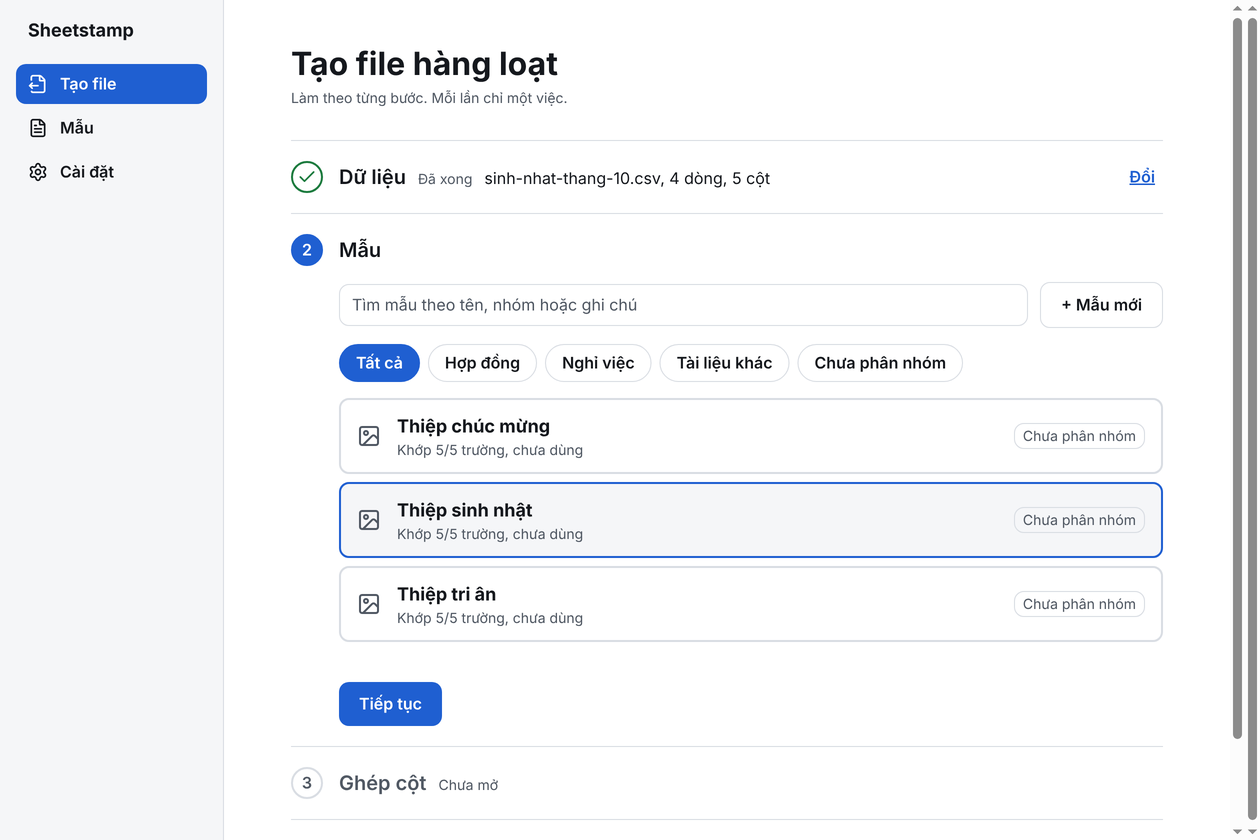
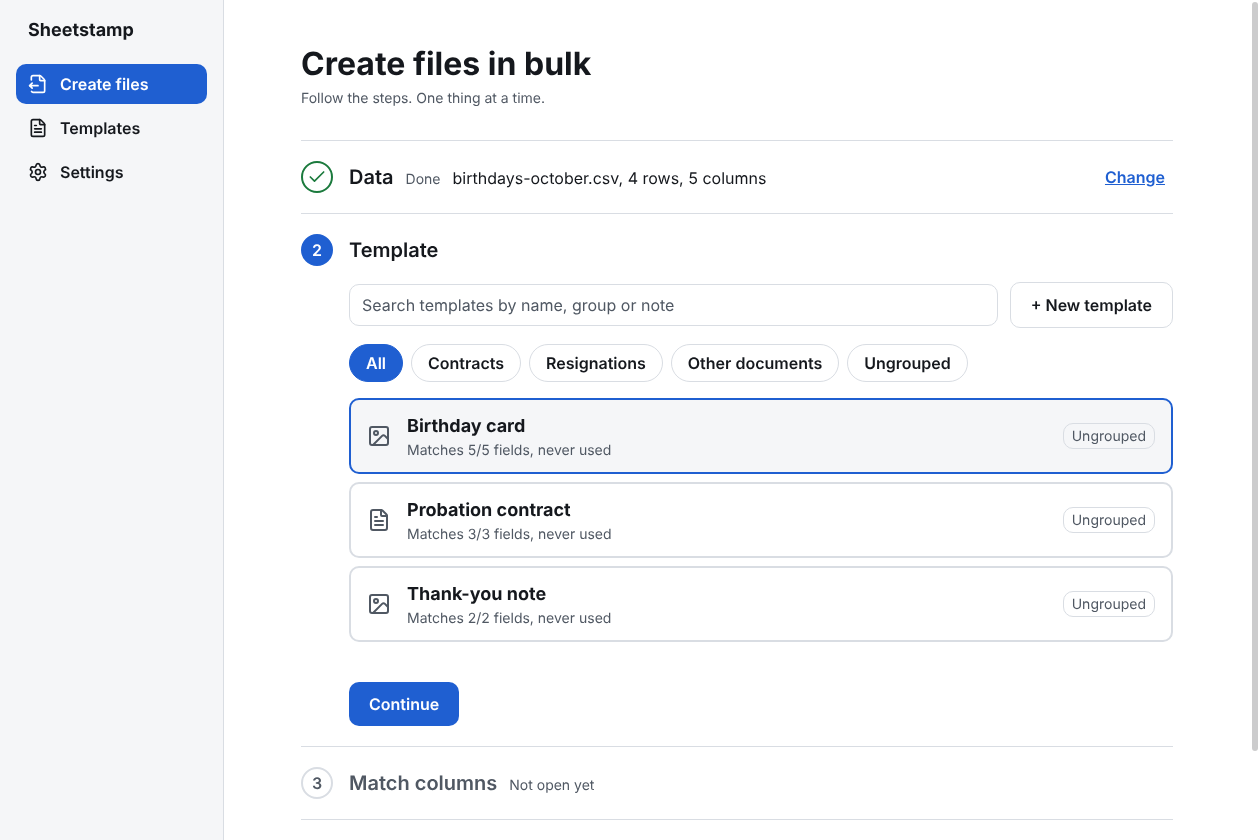
fix: English counts agree with their number, alert text per spec, English app screenshots (#29)
plural() helper for English strings; the taken-column alert is the spec sentence only; README screenshots retaken in English.

Claude-Session: https://claude.ai/code/session_019Cd4QJApFvAJck8ijqSqUp

diff --git a/src/renderer/strings/templates.ts b/src/renderer/strings/templates.ts
@@ -1,4 +1,4 @@
-import { pick } from "../../shared/i18n";
+import { pick, plural } from "../../shared/i18n";
 
 /** User-visible strings of the Mẫu page and the new-template dialog. */
 const viTpl = {
@@ -145,7 +145,7 @@ const enTpl: typeof viTpl = {
   loadError:
     "Could not load the templates. Restart the app; if it keeps failing, check the data folder.",
   list: "Document templates",
-  fieldsCount: (n: number) => `${n} fields`,
+  fieldsCount: (n: number) => `${n} ${plural(n, "field")}`,
   neverUsed: "never used",
   usedOn: (date: string) => `used ${date}`,
   edit: "Edit",
@@ -172,12 +172,13 @@ const enTpl: typeof viTpl = {
     newGroupName: "Name of the new group",
     addNote: "+ Add a note",
     note: "Note",
-    fieldsFound: (n: number) => `Found ${n} fields in the file.`,
+    fieldsFound: (n: number) => `Found ${n} ${plural(n, "field")} in the file.`,
     showLabels: "Show display names",
     labelFor: (key: string) => `Display name of ${key}`,
     noFields:
       "No fields found in the file. Write fields like {{ten}} in the Word file and try again.",
-    unsupportedTitle: (n: number) => `${n} items are not supported and will not be filled in:`,
+    unsupportedTitle: (n: number) =>
+      `${n} ${plural(n, "item is", "items are")} not supported and will not be filled in:`,
     unsupportedReason: {
       loop: "loop",
       note: "inside a footnote",
@@ -210,12 +211,13 @@ const enTpl: typeof viTpl = {
     undoReplace: "Keep the old file",
     filenamePattern: "File name pattern",
     patternHint: "Write {{field name}} to insert data, for example {{ho_ten}}_Probation.",
-    fieldsTitle: (n: number) => `${n} fields in the template.`,
+    fieldsTitle: (n: number) => `${n} ${plural(n, "field")} in the template.`,
     removedBadge: "no longer in the file",
     addedBadge: "new",
     changesTitle: "Replacing the file will change:",
-    keptLine: (n: number) => `${n} fields stay as they are.`,
-    mappingKept: (n: number) => `The saved column matching of ${n} fields is kept.`,
+    keptLine: (n: number) =>
+      `${n} ${plural(n, "field stays as it is", "fields stay as they are")}.`,
+    mappingKept: (n: number) => `The saved column matching of ${n} ${plural(n, "field")} is kept.`,
     addedLine: (keys: string) => `New fields, not matched to a column yet: ${keys}.`,
     removedLine: (keys: string) => `No longer in the file: ${keys}.`,
     removedMapped: (keys: string) =>
@@ -232,13 +234,16 @@ const enTpl: typeof viTpl = {
     undoReplace: "Keep the old image",
     changesTitle: "Replacing the background keeps the text boxes and the column matching.",
     noBoxes: "The template has no text boxes yet.",
-    allInside: (n: number) => `All ${n} text boxes are inside the new image.`,
+    allInside: (n: number) =>
+      n === 1
+        ? "The text box is inside the new image."
+        : `All ${n} text boxes are inside the new image.`,
     outsideTitle: (n: number) =>
-      `${n} text boxes are outside the new image. They are not moved; fix their position in “Edit image”:`,
+      `${n} ${plural(n, "text box is", "text boxes are")} outside the new image. ${n === 1 ? "It is" : "They are"} not moved; fix ${n === 1 ? "its" : "their"} position in “Edit image”:`,
     partly: "partly outside",
     outside: "completely outside",
     confirm: (n: number) =>
-      `Replace the image even though ${n} text boxes are outside the new one?`,
+      `Replace the image even though ${n} ${plural(n, "text box is", "text boxes are")} outside the new one?`,
     confirmYes: "Replace anyway",
     confirmBack: "Go back",
   },
@@ -246,7 +251,7 @@ const enTpl: typeof viTpl = {
     title: "Manage groups",
     empty: "No groups yet.",
     list: "Groups",
-    templateCount: (n: number) => (n === 0 ? "no templates" : `${n} templates`),
+    templateCount: (n: number) => (n === 0 ? "no templates" : `${n} ${plural(n, "template")}`),
     rename: "Rename",
     renameLabel: (name: string) => `New name of the group ${name}`,
     renameSave: "Save name",
@@ -256,11 +261,13 @@ const enTpl: typeof viTpl = {
     confirm: (name: string, n: number) =>
       n === 0
         ? `Delete the group “${name}”?`
-        : `Delete the group “${name}”? ${n} templates will move to “Ungrouped”.`,
+        : `Delete the group “${name}”? ${n} ${plural(n, "template")} will move to “Ungrouped”.`,
     confirmYes: "Delete group",
     keep: "Keep",
     deleted: (moved: number) =>
-      moved === 0 ? "Group deleted." : `Group deleted. ${moved} templates moved to “Ungrouped”.`,
+      moved === 0
+        ? "Group deleted."
+        : `Group deleted. ${moved} ${plural(moved, "template")} moved to “Ungrouped”.`,
     renamed: "Group renamed.",
     close: "Done",
     actionFailed: "Could not do that. Try again.",

diff --git a/src/renderer/strings/home-mapping.ts b/src/renderer/strings/home-mapping.ts
@@ -1,4 +1,4 @@
-import { pick } from "../../shared/i18n";
+import { pick, plural } from "../../shared/i18n";
 
 /** Vietnamese strings of Home step 3 (Ghép cột). */
 const viHomeMapping = {
@@ -13,7 +13,7 @@ const viHomeMapping = {
   allDone: (n: number) => `Tất cả ${n} trường đã ghép.`,
   listLabel: "Các trường cần ghép",
   unmatchedMarker: "Cần chọn cột",
-  takenAlert: "Cột này đã chuyển sang trường khác. Chọn cột khác.",
+  takenAlert: "Cột này đã chuyển sang trường khác.",
   firstValue: (value: string) => `Dòng đầu: ${value}`,
   emptyCell: "(trống)",
   resolvedMarker: "Đã chọn",
@@ -61,18 +61,18 @@ const enHomeMapping: typeof viHomeMapping = {
   continueFailed: "Could not save how the columns are matched. Try again.",
   saveFailed: "Could not save the last change. Try again.",
   noFields: "This template has no fields to match.",
-  needWork: (n: number) => `${n} fields need a column from you.`,
-  allDone: (n: number) => `All ${n} fields are matched.`,
+  needWork: (n: number) => `${n} ${plural(n, "field needs", "fields need")} a column from you.`,
+  allDone: (n: number) => (n === 1 ? "The field is matched." : `All ${n} fields are matched.`),
   listLabel: "Fields to match",
   unmatchedMarker: "Choose a column",
-  takenAlert: "This column moved to another field. Choose another column.",
+  takenAlert: "This column moved to another field.",
   firstValue: (value: string) => `First row: ${value}`,
   emptyCell: "(empty)",
   resolvedMarker: "Chosen",
   explanation: (label: string) =>
     `No column looks like ‘${label}’. Choose another column, type a fixed text or leave it empty.`,
-  showMatched: (n: number) => `Show ${n} matched fields`,
-  hideMatched: (n: number) => `Hide ${n} matched fields`,
+  showMatched: (n: number) => `Show ${n} matched ${plural(n, "field")}`,
+  hideMatched: (n: number) => `Hide ${n} matched ${plural(n, "field")}`,
   matchedLabel: "Matched fields",
   columnFor: (label: string) => `Column for field ${label}`,
   choose: "Choose a column…",
@@ -104,7 +104,7 @@ const enHomeMapping: typeof viHomeMapping = {
   badBackground:
     "Could not read the background image. Go to Templates, click Edit image and load the background again.",
   renderFailed: "Could not draw the preview image. Try another row or another matching.",
-  summary: (n: number) => `${n} fields matched`,
+  summary: (n: number) => `${n} ${plural(n, "field")} matched`,
 };
 
 export const homeMapping: typeof viHomeMapping = pick(viHomeMapping, enHomeMapping);

diff --git a/src/renderer/strings/home-export.ts b/src/renderer/strings/home-export.ts
@@ -1,4 +1,4 @@
-import { pick } from "../../shared/i18n";
+import { pick, plural } from "../../shared/i18n";
 
 /** Strings of Home step 4 (Xuất file). The close-window dialog text lives in src/shared/messages/export.ts. */
 const NO_BOXES = pick(
@@ -176,14 +176,14 @@ const enHomeExport: typeof viHomeExport = {
 
   folderFailed: "Could not read this folder. Choose another folder.",
   fixFirst: "Fix the file name before exporting.",
-  export: (n: number) => `Export ${n} files`,
+  export: (n: number) => `Export ${n} ${plural(n, "file")}`,
 
   running: {
     title: (done: number, total: number) => `Creating files… ${done}/${total}`,
     barLabel: "Progress of creating files",
-    barText: (done: number, total: number) => `${done} of ${total} files`,
+    barText: (done: number, total: number) => `${done} of ${total} ${plural(total, "file")}`,
     announce: (percent: number) => `${percent}% done`,
-    failedSoFar: (k: number) => `${k} rows failed so far`,
+    failedSoFar: (k: number) => `${k} ${plural(k, "row")} failed so far`,
     cancel: "Cancel",
     canceling: "Canceling…",
     keepOpen: "Do not close the app until it is done.",
@@ -205,17 +205,17 @@ const enHomeExport: typeof viHomeExport = {
   },
 
   done: {
-    title: (n: number) => `Created ${n} files`,
+    title: (n: number) => `Created ${n} ${plural(n, "file")}`,
     titleNone: "No file could be created",
     zipLabel: "ZIP file",
     open: "Open folder",
     openFailed: "Could not open the folder.",
     back: "Back",
-    failedRows: (k: number) => `${k} rows failed`,
+    failedRows: (k: number) => `${k} ${plural(k, "row")} failed`,
     failedRowsHint:
       "These rows were not exported. The report has only the row numbers and the error codes.",
     invalidValueHint: (k: number) =>
-      `${k} rows have a cell with a character Word cannot store (a hidden control character). Fix that cell in the data file and export again.`,
+      `${k} ${plural(k, "row has", "rows have")} a cell with a character Word cannot store (a hidden control character). Fix that cell in the data file and export again.`,
     reportFailed: "Could not write the error report, but the ZIP file is done.",
     report: "Show the error report",
     newBatch: "Start a new batch",

diff --git a/src/renderer/strings/plural.test.ts b/src/renderer/strings/plural.test.ts
@@ -1,0 +1,47 @@
+import { afterEach, describe, expect, it, vi } from "vitest";
+import { setLang } from "../../shared/i18n";
+
+afterEach(() => {
+  setLang("vi");
+  vi.resetModules();
+});
+
+/** The English tables pick their text when the module loads, so load them after switching language. */
+async function english() {
+  vi.resetModules();
+  setLang("en");
+  const [mapping, exporting, templates] = await Promise.all([
+    import("./home-mapping"),
+    import("./home-export"),
+    import("./templates"),
+  ]);
+  return {
+    mapping: mapping.homeMapping,
+    exporting: exporting.homeExport,
+    templates: templates.tpl,
+  };
+}
+
+describe("English counts agree with their number", () => {
+  it("mapping step", async () => {
+    const { mapping } = await english();
+    expect(mapping.needWork(1)).toBe("1 field needs a column from you.");
+    expect(mapping.needWork(2)).toBe("2 fields need a column from you.");
+    expect(mapping.allDone(1)).toBe("The field is matched.");
+    expect(mapping.showMatched(1)).toBe("Show 1 matched field");
+    expect(mapping.summary(3)).toBe("3 fields matched");
+  });
+
+  it("templates", async () => {
+    const { templates } = await english();
+    expect(templates.fieldsCount(1)).toBe("1 field");
+    expect(templates.fieldsCount(5)).toBe("5 fields");
+  });
+
+  it("export step", async () => {
+    const { exporting } = await english();
+    expect(exporting.export(1)).toBe("Export 1 file");
+    expect(exporting.export(4)).toBe("Export 4 files");
+    expect(exporting.done.failedRows(1)).toBe("1 row failed");
+  });
+});

diff --git a/src/renderer/strings/image-editor.ts b/src/renderer/strings/image-editor.ts
@@ -1,4 +1,4 @@
-import { pick } from "../../shared/i18n";
+import { pick, plural } from "../../shared/i18n";
 
 /** User-visible strings of the image editor sub-page. */
 const viIed = {
@@ -100,7 +100,7 @@ const enIed: typeof viIed = {
   empty: "No text boxes yet. Click “+ Add text” to start.",
   boxName: (label: string, n: number) => `Box ${n}: ${label}`,
   outsideBanner: (n: number) =>
-    `${n} text boxes are not fully inside the background image. Drag them inside the image, or delete the box if you do not need it.`,
+    `${n} ${plural(n, "text box is", "text boxes are")} not fully inside the background image. Drag ${n === 1 ? "it" : "them"} inside the image, or delete the box if you do not need it.`,
   outsideBadge: "outside the image",
   position: (x: number, y: number, width: number) => `x ${x}, y ${y}, width ${width}`,
   selected: (label: string, x: number, y: number) =>
@@ -160,7 +160,7 @@ const enIed: typeof viIed = {
     `The font “${family}” is no longer on this computer. Choose another font for the text boxes that use it.`,
   badBackground:
     "Could not read the background image. Load the background again or choose another image.",
-  fieldCount: (n: number) => `${n} fields in use.`,
+  fieldCount: (n: number) => `${n} ${plural(n, "field")} in use.`,
 };
 
 export const ied: typeof viIed = pick(viIed, enIed);

diff --git a/src/renderer/strings/home.ts b/src/renderer/strings/home.ts
@@ -1,4 +1,4 @@
-import { pick } from "../../shared/i18n";
+import { pick, plural } from "../../shared/i18n";
 
 /** Vietnamese strings of the Home page: the stepper and step 1 (Dữ liệu). Later steps keep their own strings files. */
 const viHome = {
@@ -86,9 +86,10 @@ const enHome: typeof viHome = {
     reading: "Reading the file…",
     pickAnother: "Choose another file",
     summary: (fileName: string, rows: number, columns: number) =>
-      `${fileName}, ${rows} rows, ${columns} columns`,
-    counts: (rows: number, columns: number) => `${rows} rows, ${columns} columns`,
-    previewCaption: (n: number) => `First ${n} rows of the file`,
+      `${fileName}, ${rows} ${plural(rows, "row")}, ${columns} ${plural(columns, "column")}`,
+    counts: (rows: number, columns: number) =>
+      `${rows} ${plural(rows, "row")}, ${columns} ${plural(columns, "column")}`,
+    previewCaption: (n: number) => `First ${n} ${plural(n, "row")} of the file`,
     sheetLabel: "Sheet",
     encodingNow: (label: string) => `Encoding in use: ${label}`,
     encodingHint: "Text looks wrong?",

diff --git a/src/main/storage/collection.ts b/src/main/storage/collection.ts
@@ -1,6 +1,6 @@
 import * as fsp from "node:fs/promises";
 import path from "node:path";
-import { t } from "../../shared/i18n";
+import { plural, t } from "../../shared/i18n";
 import { freeBackupName, type RenameFn, writeFileAtomic } from "./atomic";
 import { StorageError, type StorageWarning } from "./types";
 
@@ -41,7 +41,7 @@ const CORRUPT_MESSAGE = (file: string, movedTo: string) =>
 const SKIPPED_MESSAGE = (file: string, count: number, movedTo: string) =>
   t(
     `${count} mục trong ${file} không hợp lệ nên đã bị bỏ qua. Bản gốc được giữ lại thành ${movedTo}.`,
-    `${count} items in ${file} were not valid and were skipped. The original was kept as ${movedTo}.`,
+    `${count} ${plural(count, "item")} in ${file} ${plural(count, "was", "were")} not valid and ${plural(count, "was", "were")} skipped. The original was kept as ${movedTo}.`,
   );
 
 /**

diff --git a/src/renderer/strings/home-template.ts b/src/renderer/strings/home-template.ts
@@ -1,4 +1,4 @@
-import { pick } from "../../shared/i18n";
+import { pick, plural } from "../../shared/i18n";
 
 /** Vietnamese strings of Home step 2 (Mẫu). */
 const viHomeTemplate = {
@@ -38,9 +38,9 @@ const enHomeTemplate: typeof viHomeTemplate = {
   retry: "Try again",
   continue: "Continue",
   selected: "Selected",
-  fit: (matched: number, total: number) => `Matches ${matched}/${total} fields`,
+  fit: (matched: number, total: number) => `Matches ${matched}/${total} ${plural(total, "field")}`,
   noFields: "No fields yet",
-  fieldsOnly: (total: number) => `${total} fields`,
+  fieldsOnly: (total: number) => `${total} ${plural(total, "field")}`,
   neverUsed: "never used",
   usedOn: (date: string) => `used ${date}`,
   summary: (name: string, group: string) => `${name} (${group})`,

diff --git a/src/shared/i18n.test.ts b/src/shared/i18n.test.ts
@@ -1,5 +1,5 @@
 import { afterEach, describe, expect, it } from "vitest";
-import { DEFAULT_LANG, getLang, isLang, lazy, pick, setLang, t } from "./i18n";
+import { DEFAULT_LANG, getLang, isLang, lazy, pick, plural, setLang, t } from "./i18n";
 
 afterEach(() => setLang("vi"));
 
@@ -26,5 +26,14 @@ describe("i18n", () => {
     expect(isLang("vi")).toBe(true);
     expect(isLang("fr")).toBe(false);
     expect(isLang(undefined)).toBe(false);
+  });
+});
+
+describe("plural", () => {
+  it("agrees a count in English", () => {
+    expect(plural(1, "field")).toBe("field");
+    expect(plural(0, "field")).toBe("fields");
+    expect(plural(2, "row has", "rows have")).toBe("rows have");
+    expect(plural(1, "row has", "rows have")).toBe("row has");
   });
 });

diff --git a/tests/e2e/home-mapping.spec.ts b/tests/e2e/home-mapping.spec.ts
@@ -337,7 +337,7 @@ test("every row shows its first-row value, and a column taken by another field i
   await birthRow.getByRole("combobox").selectOption({ label: "Họ tên" });
   await expect(birthRow.getByTestId("first-value")).toHaveText("Dòng đầu: Nguyễn Văn An");
   await expect(nameRow).toHaveAttribute("data-state", "unresolved");
-  await expect(nameRow).toContainText("Cột này đã chuyển sang trường khác. Chọn cột khác.");
+  await expect(nameRow).toContainText("Cột này đã chuyển sang trường khác.");
   await expect(nameRow.getByTestId("first-value")).toHaveCount(0);
   await expect(heading(page)).toHaveText("1 trường cần bạn chọn cột.");
   await expect(next(page)).toBeDisabled();

diff --git a/src/shared/i18n.ts b/src/shared/i18n.ts
@@ -46,3 +46,6 @@ export function lazy<T extends object>(vi: T, en: T): T {
 
 /** For text built at call time (messages in main and shared code): never at module load, the language may not be set yet. */
 export const t = (vi: string, en: string): string => pick(vi, en);
+
+/** English count agreement: `plural(n, "field")` is "field" for 1 and "fields" otherwise; pass `many` for other forms. */
+export const plural = (n: number, one: string, many = `${one}s`): string => (n === 1 ? one : many);
